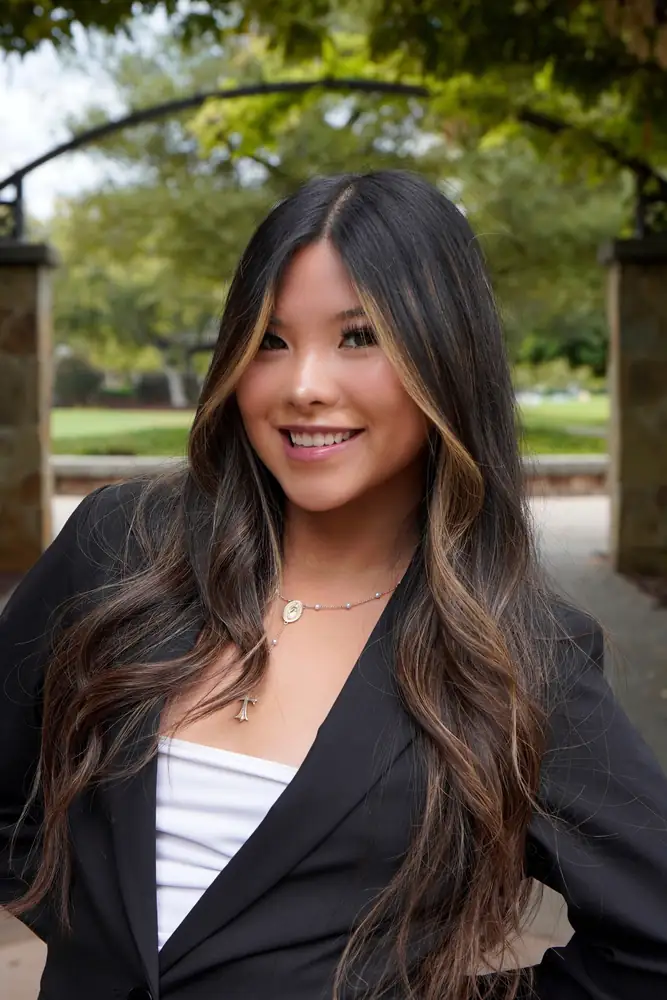
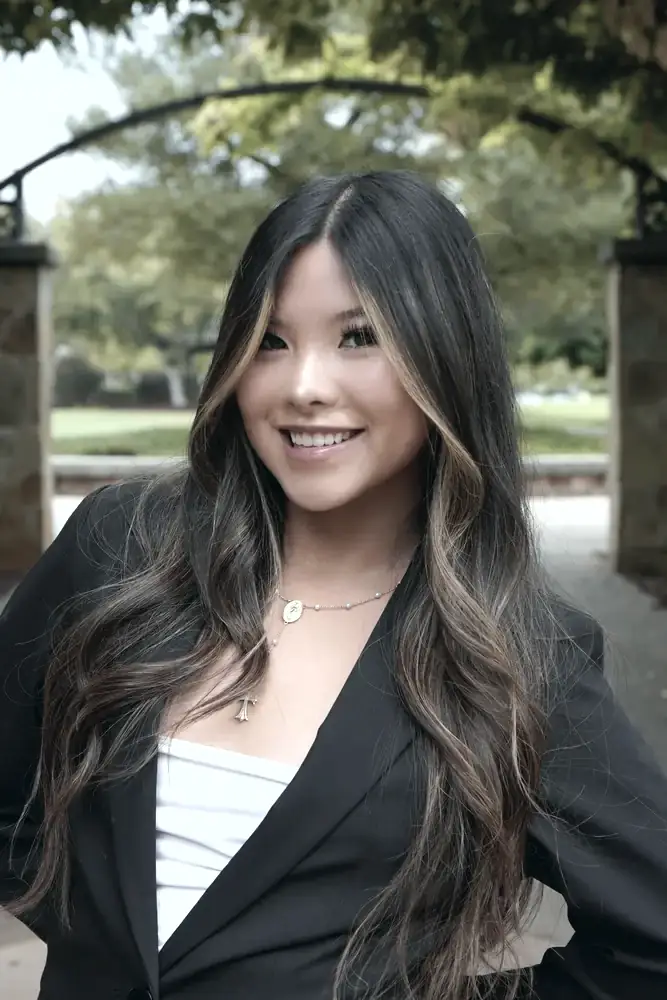
Match the three newest headshots to the house look
The other 72 photos share a grade; these three did not. Measured across
all of them in LAB, the house look sits at L*104 a*127 b*132 with a
contrast of about 68 — Megan Dinh's came in at L*72, Emily Chien's at
L*86, both warmer and more saturated than the set. Each is pulled onto
those statistics channel by channel, which brightens and cools them
without touching anything else.

Pranav Rao's is a new frame, replacing an AI-generated one. Cropped to
the same head height and scale as the grid, graded with the other two,
and converted to webp from the 4000x6000 JPEG it arrived as.

His also gets a dodge pass: the shadows that sit inside skin — under-eye
hollows, the shading a beard casts — are lifted by a few L* levels, and
only the low-frequency part of them. Pores, stubble and hair edges are
high-frequency and come through untouched, which is the difference
between a darkroom dodge and the waxy look of a generated face. The
average lift is 3.5 levels out of 255.

Melinda Do's hover mark goes back to SAP.

Claude-Session: https://claude.ai/code/session_01Ch8pm4ZntSFCGdd5DPfgKc

diff --git a/src/Assets/company.js b/src/Assets/company.js
@@ -89,7 +89,7 @@ export const companyHash = {
     "Carl Qiao": PWCLogo,
     "Logan Kim": CenterviewPartnersLogo,
     "Ryan Park": ExperianLogo,
-    "Melinda Do": TacoBellLogo,
+    "Melinda Do": SAPLogo,
     "Travis Yen": JobrightLogo,
     "Tyler Ho": BarclaysLogo,
     "Erin Tran": ReitLogo,
